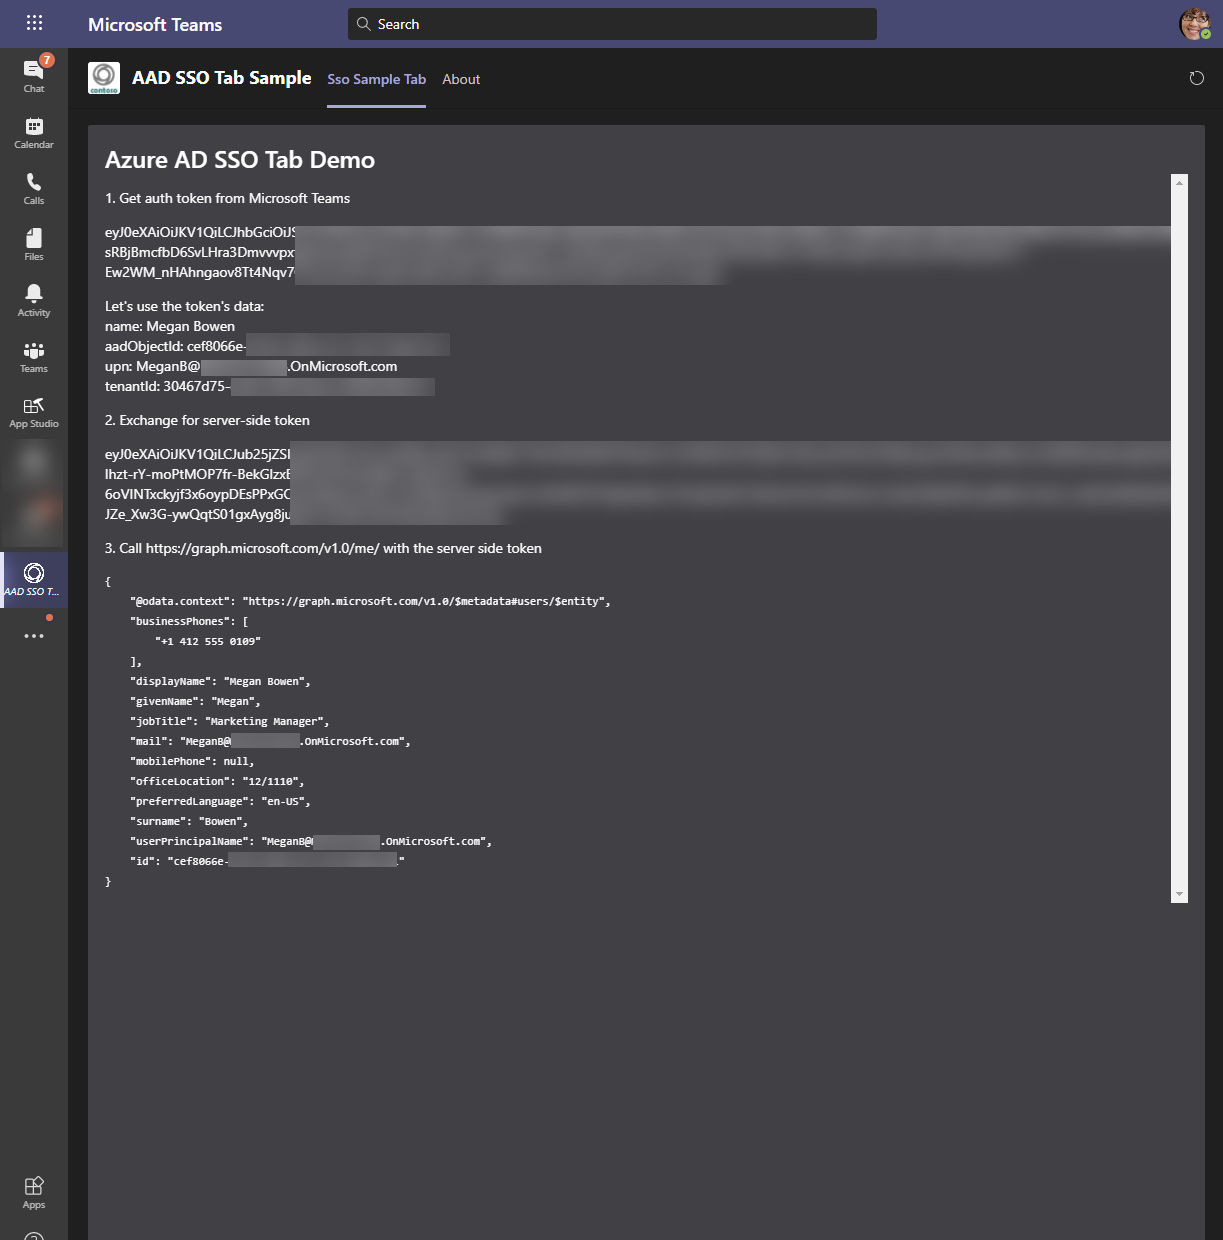
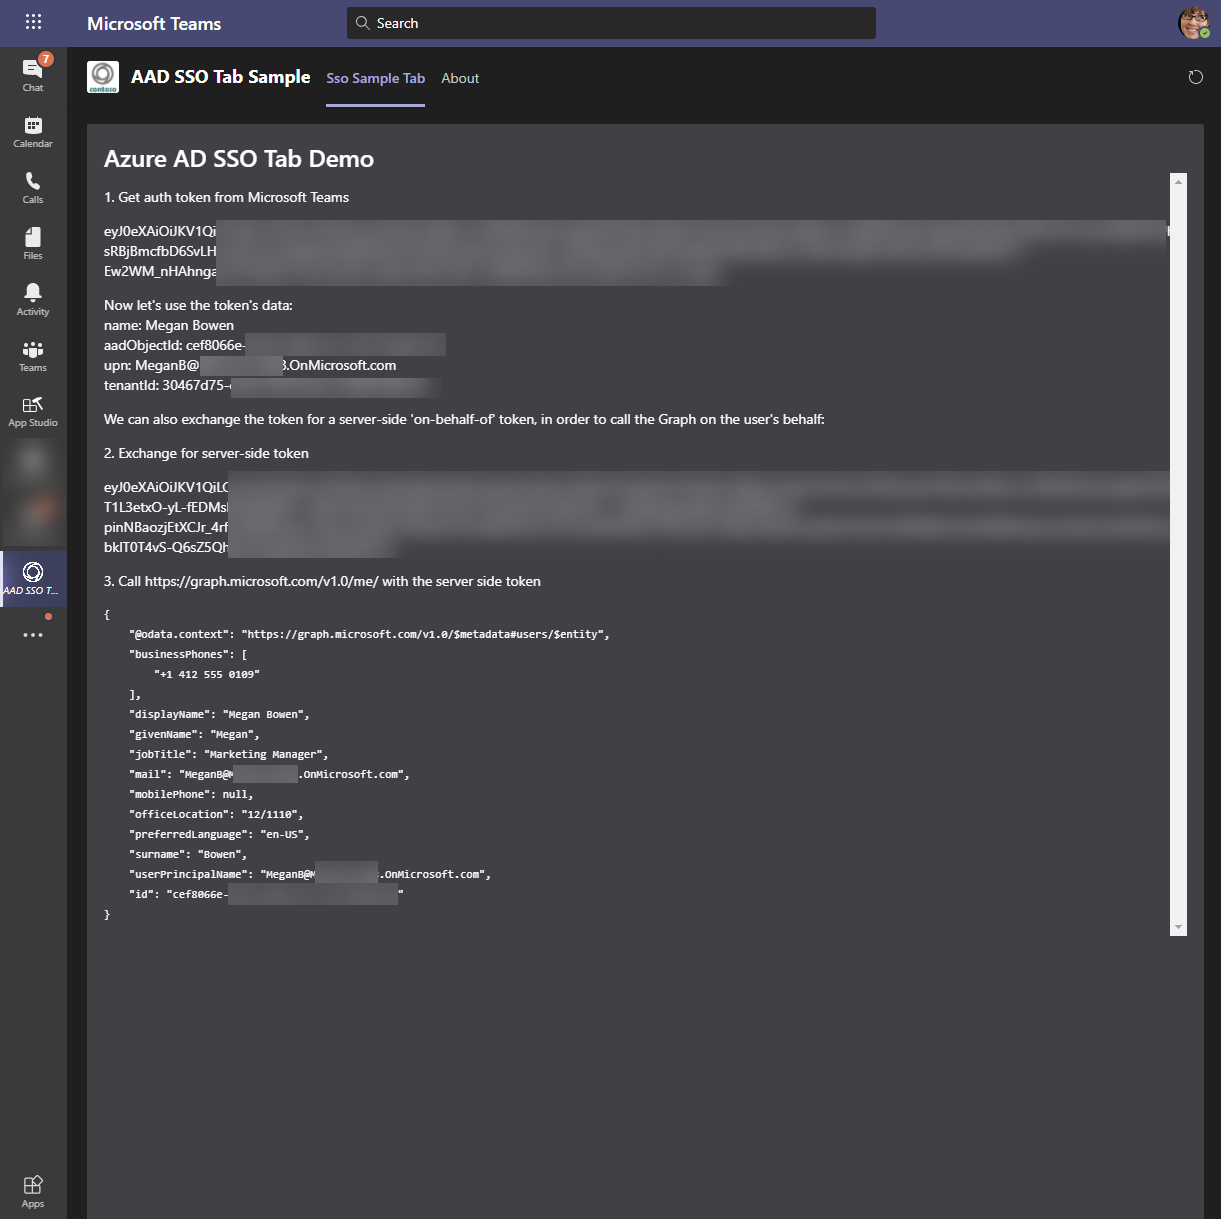
wip

diff --git a/samples/tab-sso/src/dotnet/wwwroot/scripts/ssoDemo.js b/samples/tab-sso/src/dotnet/wwwroot/scripts/ssoDemo.js
@@ -15,11 +15,13 @@
 
                     let decodedToken = jwt_decode(result);
 
-                    display("Let's use the token's data:", "div");
+                    display("Now let's use the token's data:", "div");
                     display("name: " + decodedToken.name, "div");
                     display("aadObjectId: " + decodedToken.oid, "div");
                     display("upn: " + decodedToken.upn, "div");
                     display("tenantId: " + decodedToken.tid, "div");
+
+                    display("We can also exchange the token for a server-side 'on-behalf-of' token, in order to call the Graph on the user's behalf:");
 
                     resolve(result);
                 },
